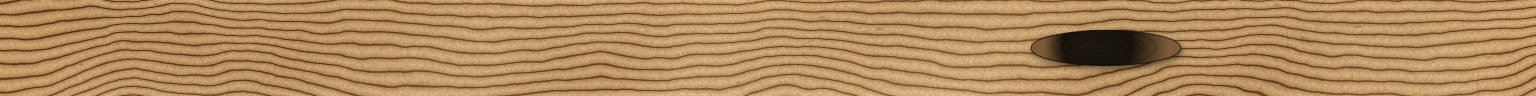
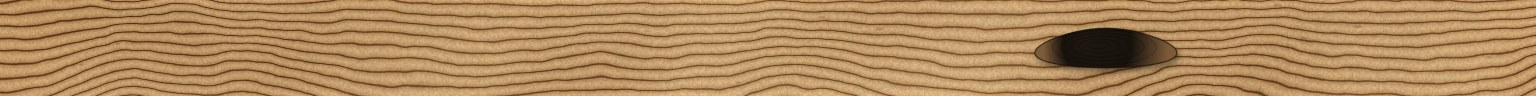
Make oval shape a proper egg/ovoid (asymmetric top/bottom)
Oval was a symmetric ellipse. Now it tapers — wider at one end, narrower
at the other — like an egg. Applied to both the rendered image
(renderSurface buildShapePath) and the 3D editor marker (makeKnotShape),
with matching bbox extent in refineBbox. Regenerated sample images.

Changed region(s): [[0.6562, 0.5938, 0.7812, 0.75], [0.6875, 0.2812, 0.7812, 0.5625], [0.6562, 0.375, 0.6875, 0.5312]]

diff --git a/lib/renderSurface.ts b/lib/renderSurface.ts
@@ -392,9 +392,19 @@ function buildShapePath(
           ctx.ellipse(0, 0, rx, ry, 0, 0, Math.PI * 2);
           break;
         case "oval": {
-          // Slightly squashed teardrop
+          // Egg / ovoid — wider at one end, narrower at the other (not a
+          // symmetric ellipse). Width tapers as a function of position.
+          const orx = rx * 1.1, ory = ry * 0.95;
+          const steps = 48;
           ctx.beginPath();
-          ctx.ellipse(0, 0, rx * 1.2, ry * 0.85, 0, 0, Math.PI * 2);
+          for (let i = 0; i <= steps; i++) {
+            const t = (i / steps) * Math.PI * 2;
+            const taper = 1 + 0.28 * Math.cos(t); // 1.28 at top → 0.72 at bottom
+            const px = Math.sin(t) * orx * taper;
+            const py = Math.cos(t) * ory;
+            if (i === 0) ctx.moveTo(px, py); else ctx.lineTo(px, py);
+          }
+          ctx.closePath();
           break;
         }
         case "spike": {

diff --git a/components/editor/Plank3D.tsx b/components/editor/Plank3D.tsx
@@ -396,9 +396,20 @@ function makeKnotShape(shape: KnotShape, rx: number, ry: number, seed: number): 
       sh.absellipse(0, 0, r, r, 0, Math.PI * 2, false, 0);
       break;
     }
-    case "oval":
-      sh.absellipse(0, 0, rx * 1.2, ry * 0.85, 0, Math.PI * 2, false, 0);
+    case "oval": {
+      // Egg / ovoid — asymmetric top/bottom, matching renderSurface.
+      const orx = rx * 1.1, ory = ry * 0.95;
+      const steps = 48;
+      for (let i = 0; i <= steps; i++) {
+        const t = (i / steps) * Math.PI * 2;
+        const taper = 1 + 0.28 * Math.cos(t);
+        const px = Math.sin(t) * orx * taper;
+        const py = Math.cos(t) * ory;
+        if (i === 0) sh.moveTo(px, py); else sh.lineTo(px, py);
+      }
+      sh.closePath();
       break;
+    }
     case "spike":
       sh.absellipse(0, 0, rx * 1.6, ry * 0.4, 0, Math.PI * 2, false, 0);
       break;

diff --git a/lib/refineBbox.ts b/lib/refineBbox.ts
@@ -29,7 +29,7 @@ const clamp1000 = (v: number) => Math.max(0, Math.min(1000, v));
 function shapeSemiAxes(shape: KnotShape, rx: number, ry: number): [number, number] {
   switch (shape) {
     case "spike":     return [rx * 1.6, ry * 0.4];
-    case "oval":      return [rx * 1.2, ry * 0.85];
+    case "oval":      return [rx * 1.2, ry * 0.95];
     case "circle":  { const m = Math.max(rx, ry); return [m, m]; }
     case "irregular": return [rx * 1.1, ry * 1.1];
     default:          return [rx, ry]; // ellipse
